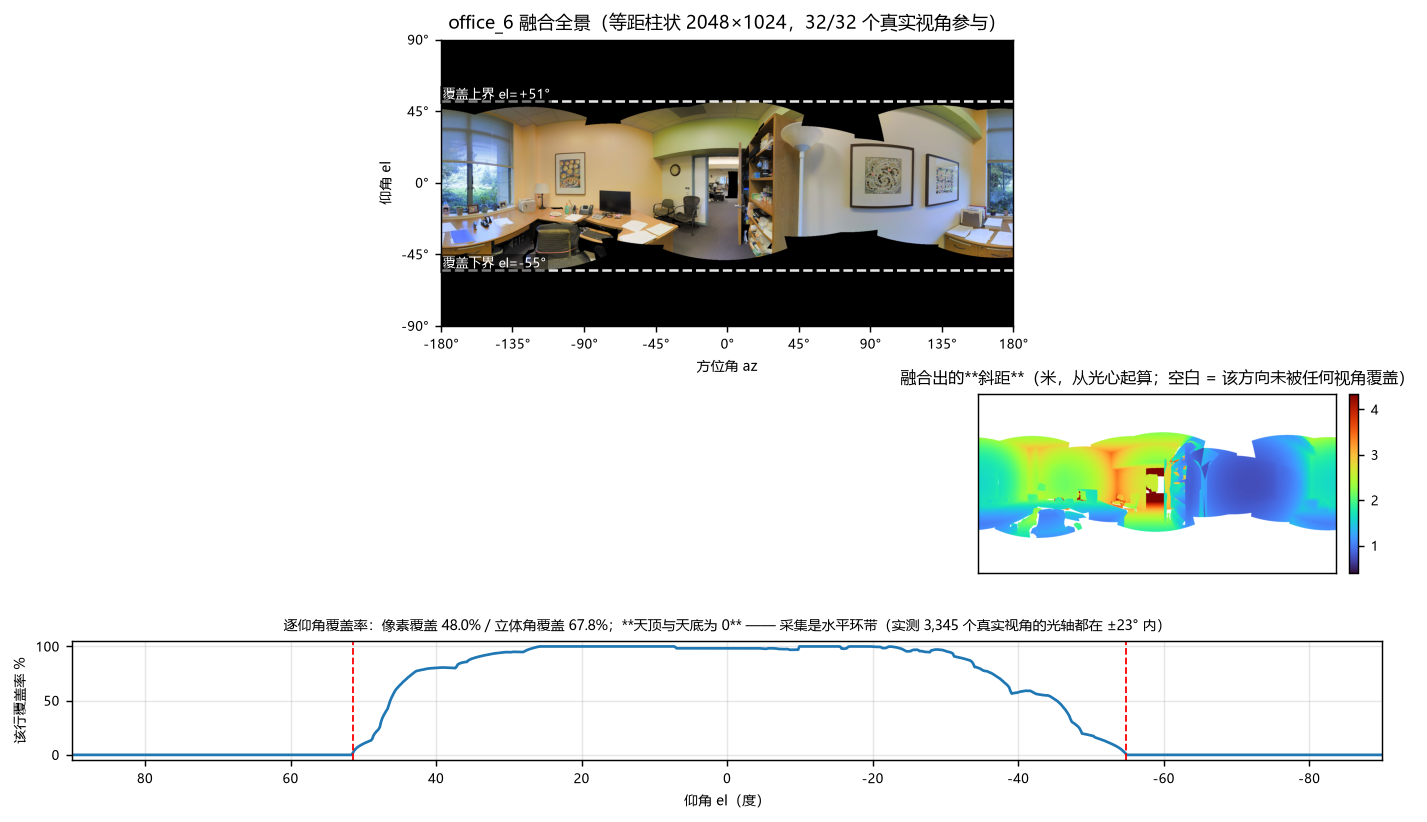
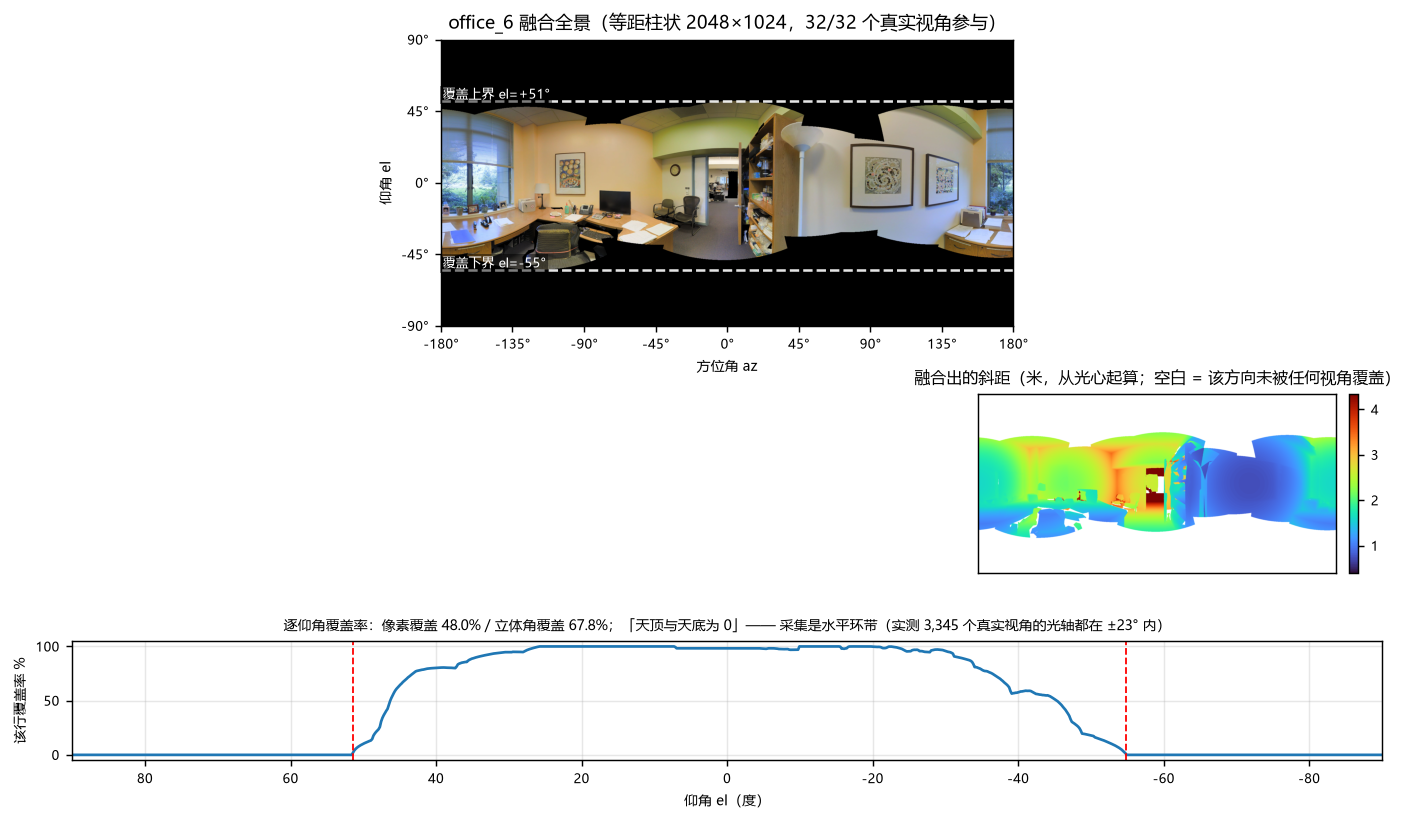
修图：去掉图标题里的 markdown 星号（matplotlib 不解析，会原样显示成 **）
set_title/suptitle 里的 **粗体** 在 matplotlib 里不会变粗，而是**原样显示
星号**。5 处标题受影响，已改为「」引号。重跑脚本，数字验收不变
（24 个物体、21 个有覆盖、中位差 0.0296 m、20/21 在半尺寸内）。

diff --git a/scripts/38_visualize_pipeline.py b/scripts/38_visualize_pipeline.py
@@ -169,7 +169,7 @@ def fig_inputs(scene: PanoScene, loc, out: Path, *, cols: int = 6) -> Path:
         axes[k].axis("off")
 
     fig.suptitle(
-        f"{scene.room}：{n} 个**真实**输入视角（同一光心、不同朝向；"
+        f"{scene.room}：{n} 个「真实」输入视角（同一光心、不同朝向；"
         f"光心离散 {scene.panorama.meta.get('center_spread_m', 0):.1e} m）\n"
         f"这些是官方在真实采集位姿上渲染的像素，不是把一张图重采样 N 次",
         fontsize=10)
@@ -214,7 +214,7 @@ def fig_fusion(scene: PanoScene, out: Path) -> Path:
     rng = np.ma.masked_where(pano.depth_m <= 0, pano.depth_m)
     im = ax2.imshow(rng, extent=[0, W, H, 0], cmap="turbo", vmin=0.4,
                     vmax=float(np.percentile(pano.depth_m[pano.depth_m > 0], 99)))
-    ax2.set_title("融合出的**斜距**（米，从光心起算；空白 = 该方向未被任何视角覆盖）",
+    ax2.set_title("融合出的斜距（米，从光心起算；空白 = 该方向未被任何视角覆盖）",
                   fontsize=9)
     ax2.set_xticks([]); ax2.set_yticks([])
     fig.colorbar(im, ax=ax2, fraction=0.025, pad=0.01).ax.tick_params(labelsize=7)
@@ -229,7 +229,7 @@ def fig_fusion(scene: PanoScene, out: Path) -> Path:
     ax3.set_title(
         f"逐仰角覆盖率：像素覆盖 {pano.coverage*100:.1f}% / "
         f"立体角覆盖 {pano.solid_angle_coverage*100:.1f}%；"
-        f"**天顶与天底为 0** —— 采集是水平环带（实测 3,345 个真实视角的光轴都在 ±23° 内）",
+        f"「天顶与天底为 0」—— 采集是水平环带（实测 3,345 个真实视角的光轴都在 ±23° 内）",
         fontsize=8)
     ax3.grid(alpha=0.3)
     ax3.tick_params(labelsize=7)
@@ -342,7 +342,7 @@ def fig_objects(scene: PanoScene, map_objects: Sequence[Any], out: Path,
         if np.all(np.isfinite(lo)) and np.all(np.isfinite(hi)) and np.all(hi > lo):
             draw_aabb_equirect(ax, scene, lo, hi, color=col, lw=0.9, alpha=0.55)
         uu.append(u[0]); vv.append(v[0])
-    ax.set_title(f"② **地图输出的物体**投回全景（{len(map_objects)} 个，★ = 物体中心，"
+    ax.set_title(f"② 「地图输出的物体」投回全景（{len(map_objects)} 个，★ = 物体中心，"
                  f"细线 = 地图里的 3D 包围盒）—— 星星应落在对应实物上", fontsize=9.5)
     ax.set_xticks([]); ax.set_yticks([])
 
@@ -440,7 +440,7 @@ def fig_topdown(scene: PanoScene, map_objects: Sequence[Any], out: Path,
     ax.set_xlim(-lim, lim); ax.set_ylim(-lim, lim)
     ax.grid(alpha=0.25)
     ax.set_xlabel("Δx (m)"); ax.set_ylabel("Δy (m)")
-    ax.set_title(f"同上的俯视图 + {len(ids)} 个输入视角的**光轴方向**（蓝箭头）\n"
+    ax.set_title(f"同上的俯视图 + {len(ids)} 个输入视角的「光轴方向」（蓝箭头）\n"
                  "箭头绕满一圈，说明确实是原地转一圈的多视角，而不是同一方向拍多次",
                  fontsize=9)
 
